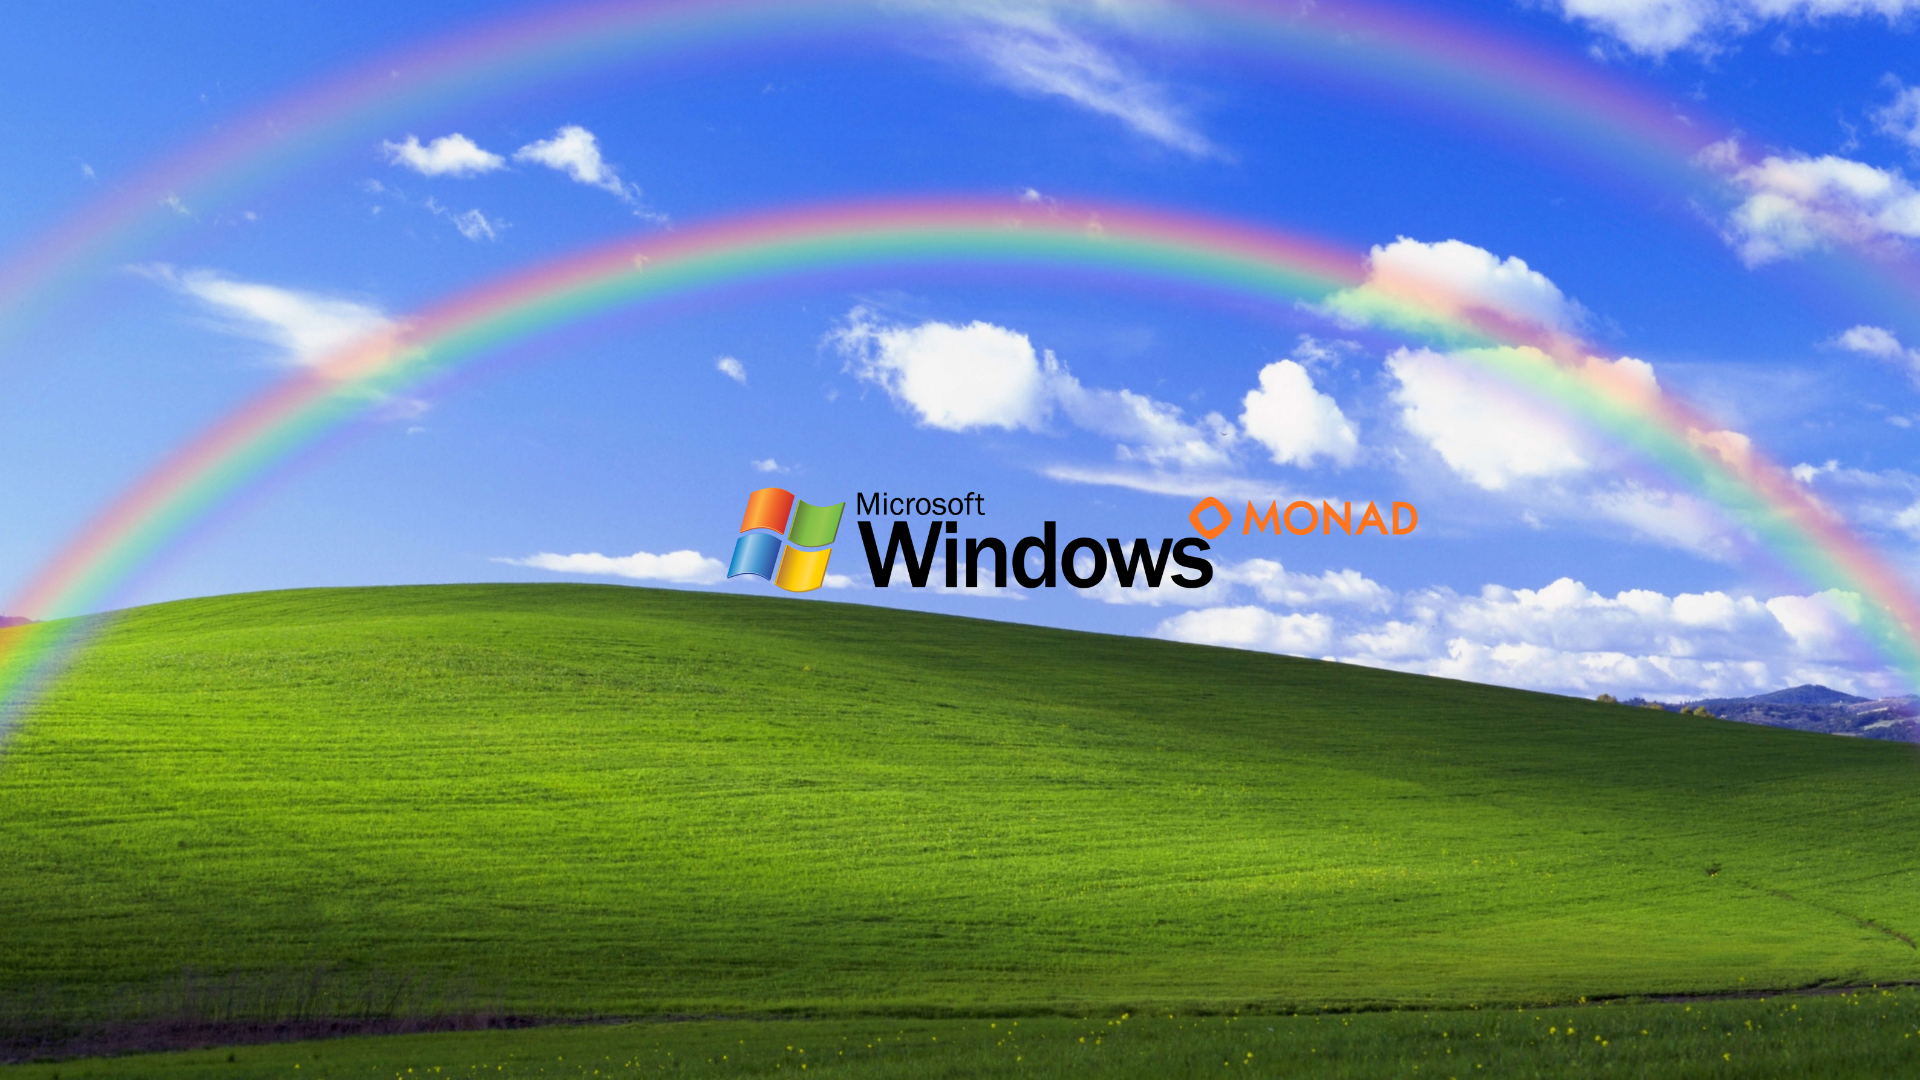
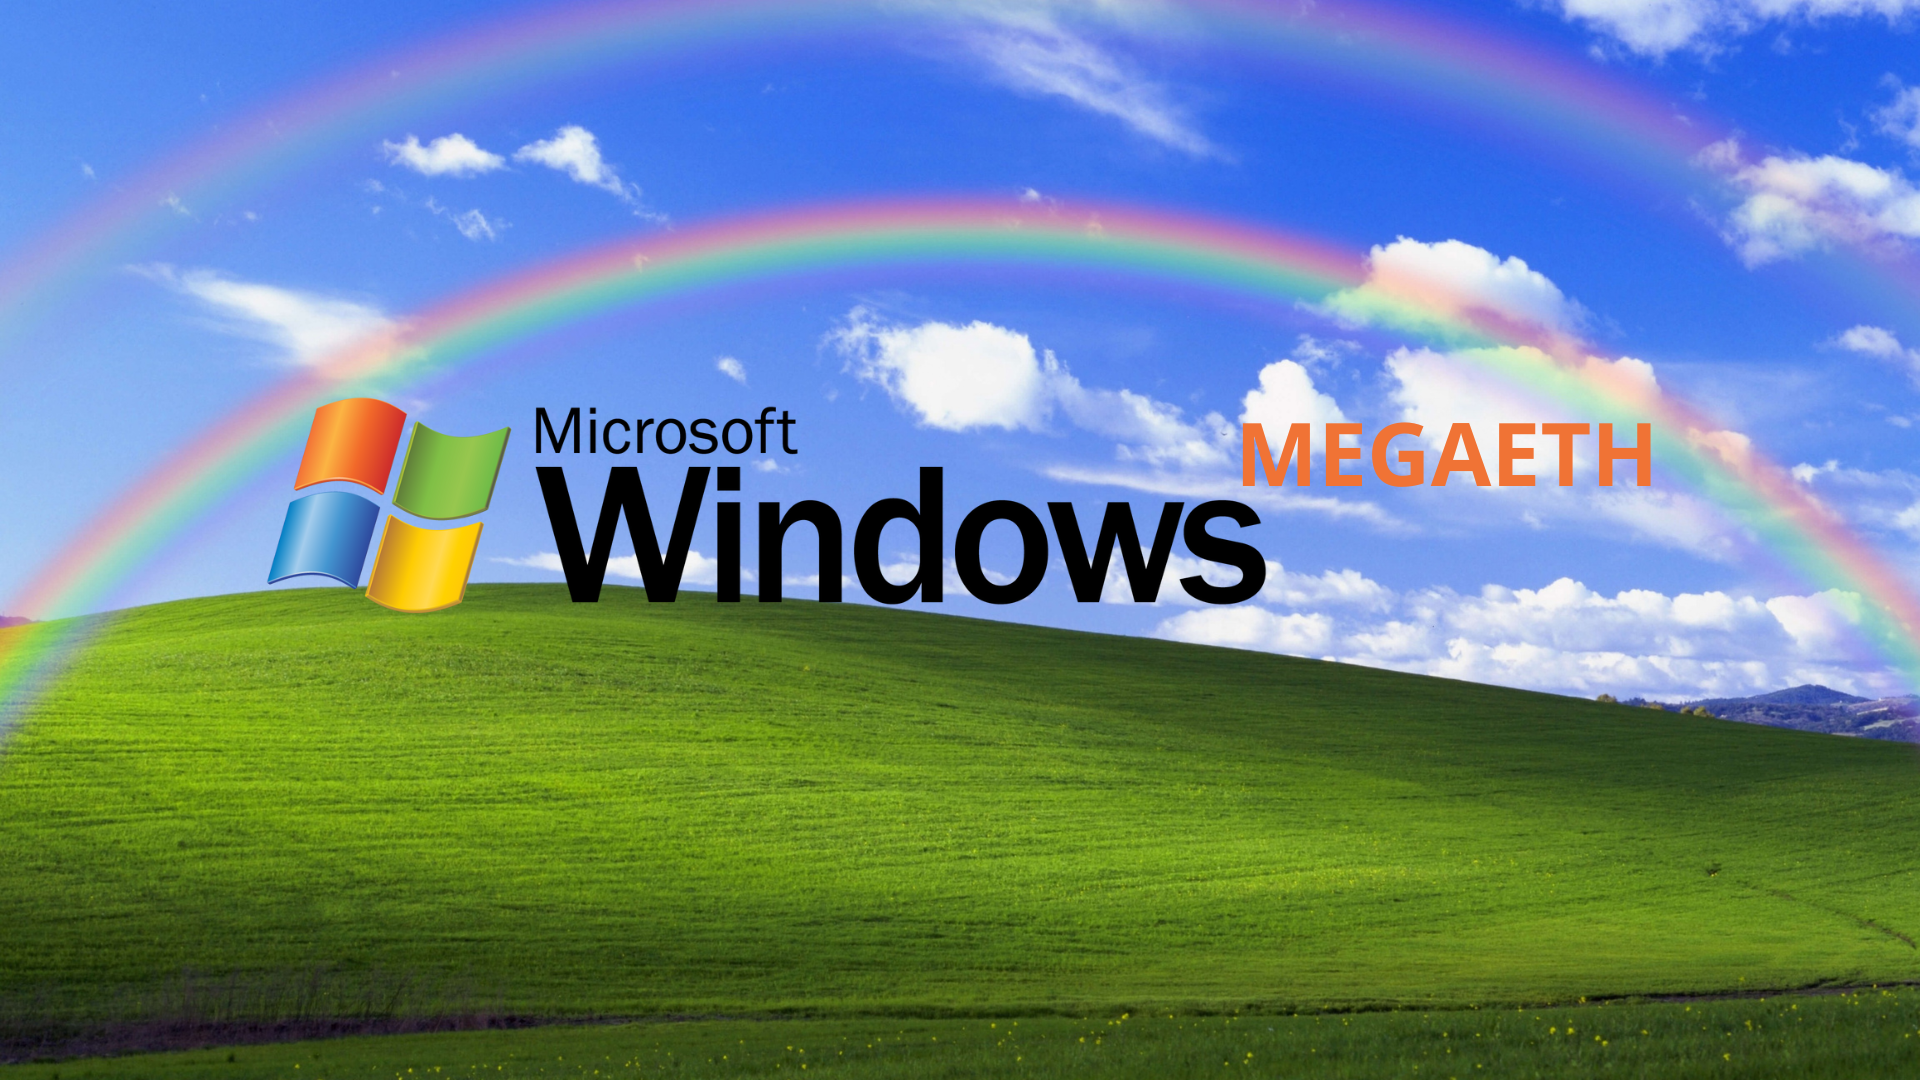
fix

Changed region(s): [[0.125, 0.3667, 0.875, 0.5806]]

diff --git a/index.html b/index.html
@@ -4,13 +4,13 @@
 
 <head>
   <meta charset="utf-8">
-  <title>Windows Monad Official </title>
-  <meta content="Windows Monad " name="description">
-  <meta content="Windows Monad " property="og:title">
-  <meta content="Windows Monad " property="og:description">
+  <title>Windows MegaETH Official </title>
+  <meta content="Windows MegaETH " name="description">
+  <meta content="Windows MegaETH " property="og:title">
+  <meta content="Windows MegaETH " property="og:description">
   <meta content="#" property="og:image">
-  <meta content="Windows Monad " property="twitter:title">
-  <meta content="Windows Monad " property="twitter:description">
+  <meta content="Windows MegaETH " property="twitter:title">
+  <meta content="Windows MegaETH " property="twitter:description">
   <meta content="#" property="twitter:image">
   <meta property="og:type" content="website">
   <meta content="summary_large_image" name="twitter:card">
@@ -441,12 +441,12 @@
           <div class="win-content-outer-frame">
             <div class="win-content-inner-frame">
               <div class="win-content"><a href="#" class="bin-item w-inline-block">
-                  <div class="bien-item-text">Windows Monad
+                  <div class="bien-item-text">Windows MegaETH
                   </div>
                 </a><a href="#" class="bin-item w-inline-block">
                   <div class="bien-item-text">3D-NFT-pack.zip</div>
                 </a><a href="#" class="bin-item w-inline-block">
-                  <div class="bien-item-text">Deploy-Windows Monad
+                  <div class="bien-item-text">Deploy-Windows MegaETH
                     .exe</div>
                 </a></div>
             </div>
@@ -497,13 +497,13 @@
       </a>
 
       <div class="clock-2">
-        <div class="flex-h"><a href="https://t.me/Windows_Monad" target="_blank" class="w-inline-block"><img
+        <div class="flex-h"><a href="https://t.me/Windows_MegaETH" target="_blank" class="w-inline-block"><img
               src="images/65d720d339f549e9be698efb_telegram-logo-pixel.png" alt class="image-6"></a><a href=""
             target="_blank" class="w-inline-block"><img src="images/65d71deffc33dbbb24b85c16_logo-discord-pixel.png" alt
-              class="image-6"></a><a href="https://x.com/WinMon_Monad" target="_blank"
+              class="image-6"></a><a href="https://x.com/WinMon_MegaETH" target="_blank"
             class="link-block w-inline-block"><img src="images/65d71d53b566b4f91fb8adbc_logo-x-twitter.png" alt
               class="image-6"></a>
-          <h6 class="hack23-time-version2 hide">WINMON</h6>
+          <h6 class="hack23-time-version2 hide">WIN</h6>
         </div>
       </div>
     </div>
@@ -517,10 +517,10 @@
       class="desktop w-hidden-medium w-hidden-small w-hidden-tiny">
 
       <a id="w-node-_911b49d6-ea40-36b6-c34d-ca2528396137-fa5940a2" data-w-id="911b49d6-ea40-36b6-c34d-ca2528396137"
-        href="https://"
-        class="icon-block draggable w-inline-block"><img src="images/nad.jpg" width="Auto" height="Auto"
+        href="https://www.kumbaya.xyz/#/launch/TBA"
+        class="icon-block draggable w-inline-block"><img src="images/ku.png" width="Auto" height="Auto"
           style="width: 40px;border-radius: 50%;" sizes="(max-width: 991px) 100vw, 60px" alt class="win-icon handle">
-        <p class="icon-text">Nad.fun</p>
+        <p class="icon-text">Kumbaya</p>
       </a>
         <!-- <a id="w-node-_911b49d6-ea40-36b6-c34d-ca2528396137-fa5940a2" data-w-id="911b49d6-ea40-36b6-c34d-ca2528396137"
         href="https://Tonx.mypinata.cloud/ipfs/bafybeiajyhfbf6evh4mdabassmbtsy73ci2gmcgh4ffmjkrgsea35vqxba/#/"
@@ -544,7 +544,7 @@
         <p class="icon-text">SWAP.EXE</p>
       </a>
 
-      <a id="w-node-_42c4ac90-e262-261f-d3da-3a28cca4e7f9-fa5940a2" href="https://x.com/WinMon_Monad
+      <a id="w-node-_42c4ac90-e262-261f-d3da-3a28cca4e7f9-fa5940a2" href="https://x.com/WinMon_MegaETH
       " target="_blank" class="icon-block draggable w-inline-block"><img
           src="images/65d71d53b566b4f91fb8adbc_logo-x-twitter.png" width="10" height="Auto" alt
           class="win-icon handle small x2">
@@ -560,7 +560,7 @@
         <p class="icon-text tag">(999+)</p>
       </a>
 
-      <a id="w-node-_98696d31-f657-2a46-99d4-e65f13122bee-fa5940a2" href="https://t.me/Windows_Monad" target="_blank"
+      <a id="w-node-_98696d31-f657-2a46-99d4-e65f13122bee-fa5940a2" href="https://t.me/Windows_MegaETH" target="_blank"
         class="icon-block draggable w-inline-block"><img src="images/65d7bfcb85a47be31f4b20b7_tg-pixel-logo.png"
           sizes="(max-width: 991px) 100vw, 40px" height width="65" alt
           srcset="images/65d7bfcb85a47be31f4b20b7_tg-pixel-logo-p-500.png 500w, images/65d7bfcb85a47be31f4b20b7_tg-pixel-logo-1.png 524w"
@@ -616,7 +616,7 @@
 
     <div style="" class="mobile">
 
-      <a id="w-node-e47fd2c7-f5f1-bb64-9363-93c3c7cabebf-fa5940a2" href="https://x.com/WinMon_Monad
+      <a id="w-node-e47fd2c7-f5f1-bb64-9363-93c3c7cabebf-fa5940a2" href="https://x.com/WinMon_MegaETH
       " target="_blank" class="icon-block draggable w-inline-block"><img
           src="images/65d71d53b566b4f91fb8adbc_logo-x-twitter.png" width="10" height="Auto" alt
           class="win-icon handle small x2">
@@ -648,7 +648,7 @@
         <p class="icon-text tag">(285)</p>
       </a>
 
-      <a id="w-node-e7e03d8e-0ed1-f2f7-a2ef-ba81b0a678b4-fa5940a2" href="https://t.me/Windows_Monad" target="_blank"
+      <a id="w-node-e7e03d8e-0ed1-f2f7-a2ef-ba81b0a678b4-fa5940a2" href="https://t.me/Windows_MegaETH" target="_blank"
         class="icon-block draggable w-inline-block"><img src="images/65d7bfcb85a47be31f4b20b7_tg-pixel-logo.png"
           sizes="(max-width: 991px) 40px, 100vw" height width="65" alt
           srcset="images/65d7bfcb85a47be31f4b20b7_tg-pixel-logo-p-500.png 500w, images/65d7bfcb85a47be31f4b20b7_tg-pixel-logo-1.png 524w"
